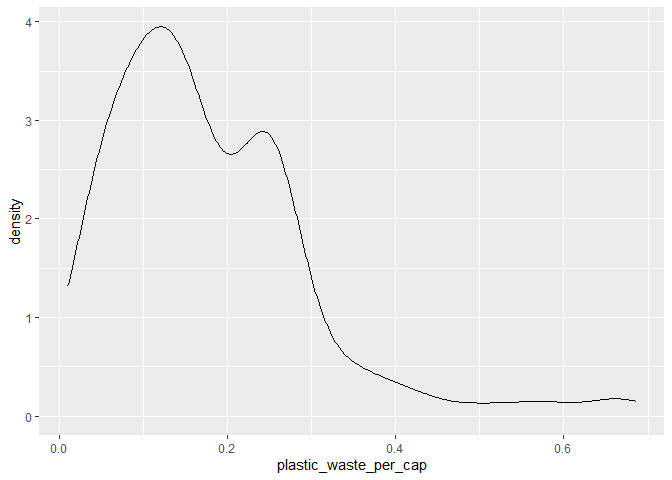
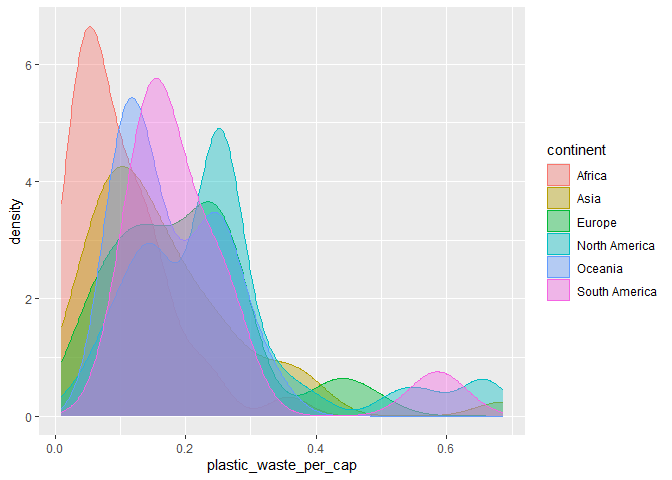
Exercice 2, manque la question

diff --git a/lab-02.md b/lab-02.md
@@ -34,7 +34,7 @@ ggplot(plastic_waste,aes(x = plastic_waste_per_cap)) + geom_histogram(binwidth =
 ### Exercise 2
 
 ``` r
- ggplot(plastic_waste,aes(x = plastic_waste_per_cap))+ geom_density ()
+ ggplot(plastic_waste,aes(x = plastic_waste_per_cap, colour=continent, fill=continent))+ geom_density (alpha=0.4)
 ```
 
 ![](lab-02_files/figure-gfm/plastic-waste-density-1.png)<!-- -->
